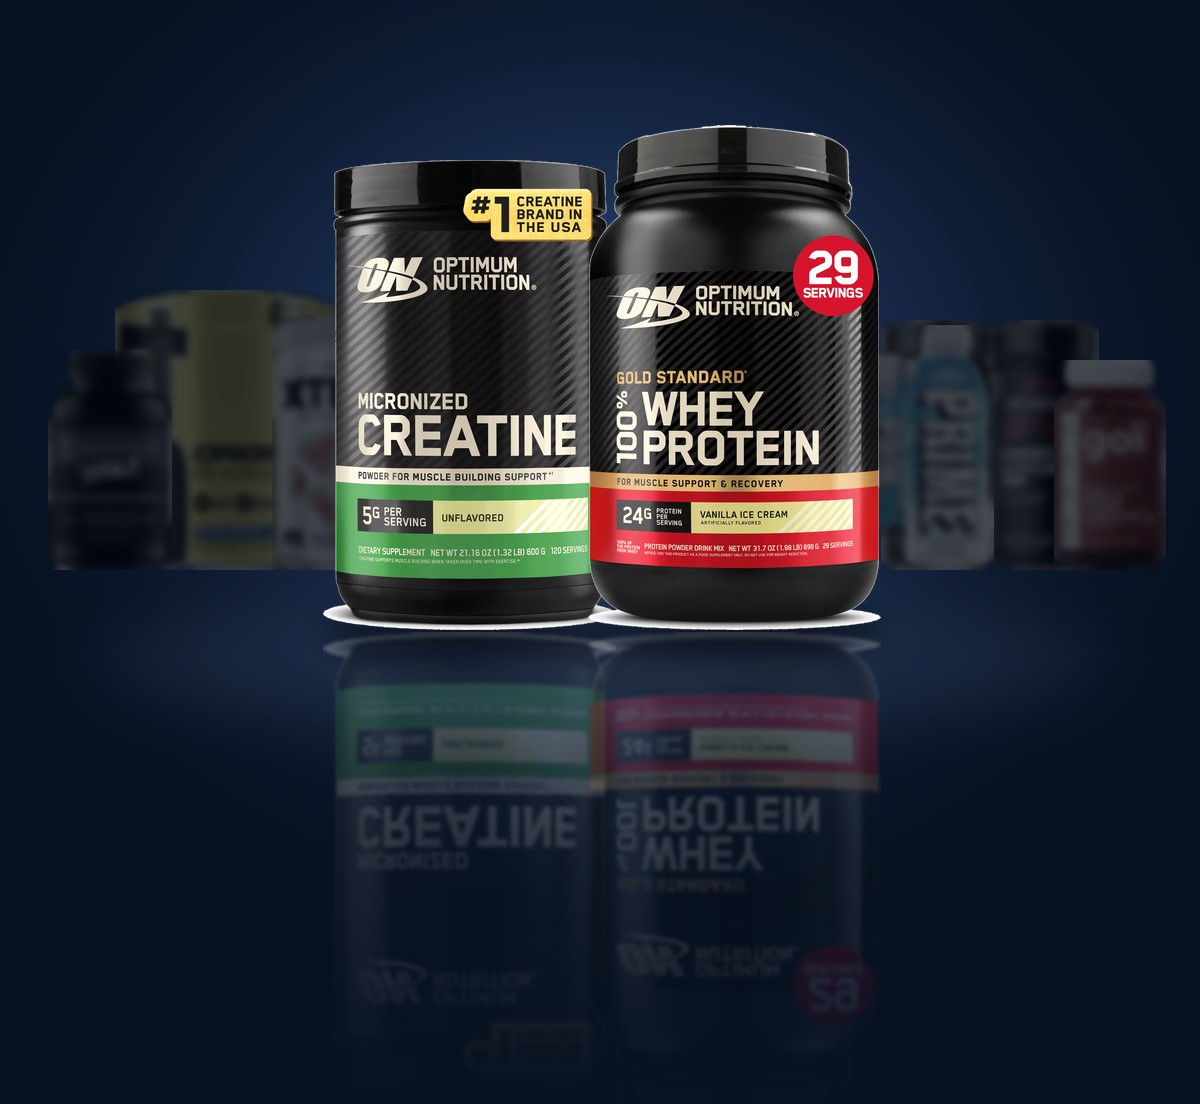
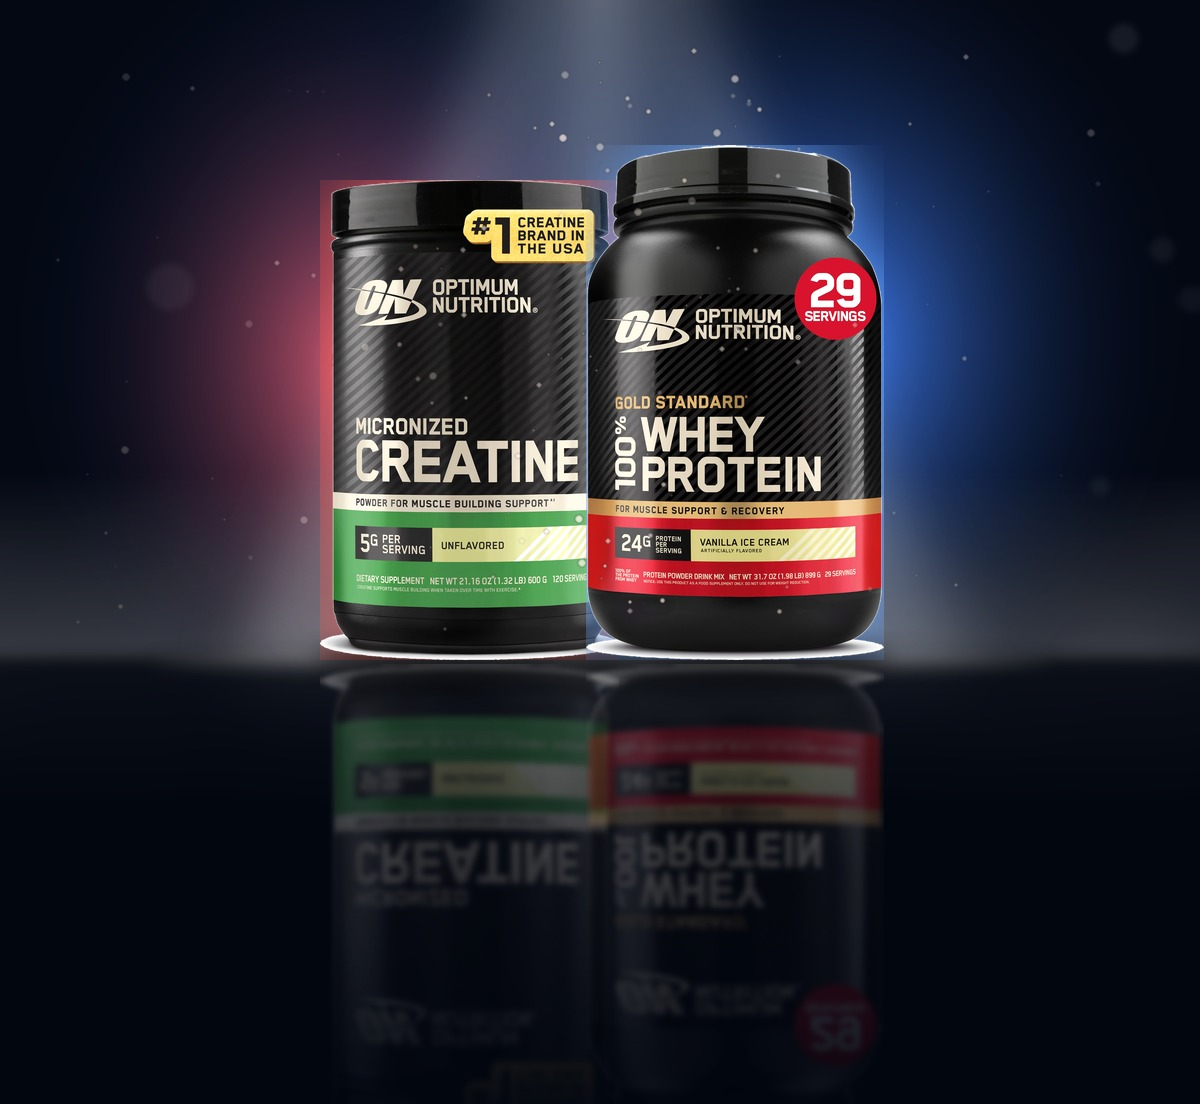
Commercial-style stack hero; Boon tab rewritten around the offer (Strip/Stack/Six-Pack, guarantee, Trend Shield, Boon AI teaser)
Claude-Session: https://claude.ai/code/session_01Bf86E4ucw6eJutAMhaLVMs

diff --git a/app/(tabs)/boon.tsx b/app/(tabs)/boon.tsx
@@ -1,22 +1,35 @@
 import React, { useCallback, useState } from 'react';
-import { Linking, StyleSheet, Text, View } from 'react-native';
+import { Linking, Pressable, StyleSheet, Text, View } from 'react-native';
 import { useFocusEffect } from 'expo-router';
 import { useAuth } from '../../src/lib/auth';
 import { supabase } from '../../src/lib/supabase';
 import { C, F } from '../../src/lib/theme';
-import { Body, Button, Card, Eyebrow, H1, s as ui } from '../../src/components/ui';
+import { Button } from '../../src/components/ui';
 import Screen from '../../src/components/Screen';
+import FullHero from '../../src/components/FullHero';
 import { WHATSAPP } from '../../src/components/NoPlan';
-import PageHeader from '../../src/components/PageHeader';
-import HeroCard from '../../src/components/HeroCard';
+import { ChatIcon, CheckIcon, ForkIcon, SearchIcon, ShieldIcon, SparkIcon, TrendIcon, TrophyIcon } from '../../src/components/icons';
+import { plain } from '../../src/lib/program';
 
-const HERO_IMG = require('../../assets/hero/boon.jpg');
-
+const HERO = require('../../assets/hero/boon_full.jpg');
 type Review = { id: string; week: number | null; body: string; created_at: string };
 
+const wa = (text?: string) => Linking.openURL(`https://wa.me/${WHATSAPP}${text ? `?text=${encodeURIComponent(text)}` : ''}`);
+
+const Badge = ({ children, tone = 'red' }: { children: React.ReactNode; tone?: 'red' | 'green' }) => (
+  <View style={[st.badge, tone === 'green' && { backgroundColor: 'rgba(63,191,127,0.15)', borderColor: C.green }]}>{children}</View>
+);
+
+const PILLARS = [
+  { n: '01', name: 'Strip', icon: <ShieldIcon color={C.red2} size={18} />, line: 'I audit your whole stack and cut what\'s wasting your money. No sponsors, so I have nothing to sell you.' },
+  { n: '02', name: 'Stack', icon: <ForkIcon color={C.red2} />, line: 'Meals built from food you already love, a 4-day Push / Pull / Legs / Upper plan, and only the supplements that work.' },
+  { n: '03', name: 'Six-Pack', icon: <TrendIcon color={C.red2} />, line: 'Every Sunday I read your check-in and change one thing at a time until the abs show.' },
+];
+
 export default function Boon() {
-  const { session, profile, signOut } = useAuth();
+  const { session, profile, plan, signOut } = useAuth();
   const [reviews, setReviews] = useState<Review[]>([]);
+  const name = plan?.name || profile?.first_name || '';
 
   useFocusEffect(useCallback(() => {
     if (!session) return;
@@ -26,29 +39,95 @@ export default function Boon() {
   }, [session]));
 
   return (
-    <Screen header={
-      <View style={{ gap: 18 }}>
-        <PageHeader kicker="Your coach" title="Boon" subtitle="225 to 175 lbs. No sponsors, no affiliate links. Just what works." right={<View />} />
-        <HeroCard image={HERO_IMG} badge="Your coach" title="Ask me anything"
-          subtitle="Stuck, hungry, sore or not sure? Text me. I answer every message myself." cta="Text Boon on WhatsApp"
-          onPress={() => Linking.openURL(`https://wa.me/${WHATSAPP}`)} />
-      </View>
+    <Screen edgeToEdge header={
+      <FullHero image={HERO} pills={[{ text: 'Your coach' }, { text: 'Replies within 24h', tone: 'green' }]}
+        title="I've got you"
+        lede={`${name ? `${name}, I` : 'I'} went from 225 to 175 lbs after years of wasting money on supplements that did nothing. Now I do for you what I wish someone did for me.`} />
     }>
+      {/* Main action */}
+      <Pressable accessibilityRole="button" onPress={() => wa()} style={({ pressed }) => [st.cta, pressed && { opacity: 0.9 }]}>
+        <View style={st.ctaIcon}><ChatIcon color={C.white} size={22} /></View>
+        <View style={{ flex: 1, gap: 2 }}>
+          <Text style={st.ctaTitle}>Text me anytime</Text>
+          <Text style={st.ctaSub}>Stuck, hungry, sore or not sure? Send it. I read and answer every message myself.</Text>
+        </View>
+      </Pressable>
 
-      <Eyebrow>Your weekly reviews</Eyebrow>
-      {reviews.length === 0 && <Body>After your first Sunday check-in, my review for your week shows up here.</Body>}
+      {/* The offer */}
+      <View style={st.card}>
+        <Text style={st.kicker}>Your 12 weeks with me</Text>
+        <Text style={st.cardTitle}>Strip. Stack. Six-Pack.</Text>
+        {PILLARS.map((p) => (
+          <View key={p.n} style={st.pillar}>
+            <Badge>{p.icon}</Badge>
+            <View style={{ flex: 1, gap: 2 }}>
+              <Text style={st.pillarName}><Text style={{ color: C.red2 }}>{p.n}  </Text>{p.name}</Text>
+              <Text style={st.body}>{p.line}</Text>
+            </View>
+          </View>
+        ))}
+      </View>
+
+      {/* Guarantee */}
+      <View style={[st.card, { borderColor: C.green, backgroundColor: 'rgba(63,191,127,0.08)' }]}>
+        <View style={st.row}>
+          <Badge tone="green"><TrophyIcon color={C.green} /></Badge>
+          <Text style={[st.cardTitle, { flex: 1 }]}>My promise to you</Text>
+        </View>
+        {!!plan?.goal_short && <Text style={st.goal}>{plain(plan.goal_short)}</Text>}
+        <Text style={st.body}>Do your 12 Sunday check-ins, send your photos on photo weeks and hit your food 5 days out of 7. If you don't reach your goal, I keep coaching you for free for up to 12 more weeks until you do.</Text>
+        {['12 Sunday check-ins', 'Photos on photo weeks', 'Food on point 5 of 7 days'].map((t) => (
+          <View key={t} style={st.check}><View style={st.tick}><CheckIcon size={11} /></View><Text style={st.checkText}>{t}</Text></View>
+        ))}
+      </View>
+
+      {/* Trend Shield */}
+      <View style={st.card}>
+        <View style={st.row}>
+          <Badge><SearchIcon color={C.red2} /></Badge>
+          <View style={{ flex: 1 }}>
+            <Text style={st.kicker}>Trend Shield</Text>
+            <Text style={st.cardTitle}>Saw something new?</Text>
+          </View>
+        </View>
+        <Text style={st.body}>A new supplement, a viral trend, an ad that sounds too good. Send it before you buy it. You get my honest verdict within 24 hours. No sponsors, no affiliate links, ever.</Text>
+        <Button title="Send me a product" variant="ghost" onPress={() => wa('Trend Shield: what do you think of this? ')} />
+      </View>
+
+      {/* Weekly reviews */}
+      <Text style={st.section}>Your weekly reviews</Text>
+      {reviews.length === 0 && (
+        <View style={st.empty}>
+          <Text style={st.body}>After your first Sunday check-in, my notes on your week land here: what's working, the one thing we change, and your focus for the next 7 days.</Text>
+        </View>
+      )}
       {reviews.map((r) => (
-        <Card key={r.id}>
-          <Text style={ui.label}>{r.week ? `Week ${r.week}` : new Date(r.created_at).toLocaleDateString()}</Text>
-          <Body>{r.body}</Body>
-        </Card>
+        <View key={r.id} style={st.review}>
+          <View style={st.row}>
+            <View style={st.wk}><Text style={st.wkText}>W{r.week ?? '–'}</Text></View>
+            <Text style={[st.pillarName, { flex: 1 }]}>{r.week ? `Week ${r.week} review` : new Date(r.created_at).toLocaleDateString()}</Text>
+          </View>
+          <Text style={st.body}>{r.body}</Text>
+        </View>
       ))}
 
-      <Text style={[st.sub, { fontFamily: 'Montserrat_500Medium', lineHeight: 16, marginTop: 16 }]}>
+      {/* Coming soon */}
+      <View style={[st.card, { borderStyle: 'dashed' }]}>
+        <View style={st.row}>
+          <Badge><SparkIcon color={C.red2} /></Badge>
+          <View style={{ flex: 1 }}>
+            <Text style={st.kicker}>Coming soon</Text>
+            <Text style={st.cardTitle}>Boon AI</Text>
+          </View>
+        </View>
+        <Text style={st.body}>An AI coach trained on my rules and verdicts, so you can ask about any meal, product or workout at 2am and get my kind of answer. It will always be clearly labeled as AI. Real me stays your coach.</Text>
+      </View>
+
+      <Text style={st.fine}>
         Product names, logos and photos belong to their owners and are shown to identify the products Boon reviews. No sponsorships, no affiliate links. Not medical advice: check with your doctor before changing anything if you have a condition or take medication.
       </Text>
-      <View style={{ marginTop: 8, gap: 8 }}>
-        <Text style={st.sub}>Signed in as {profile?.email || session?.user.email}</Text>
+      <View style={{ gap: 8 }}>
+        <Text style={st.fine}>Signed in as {profile?.email || session?.user.email}</Text>
         <Button title="Sign out" variant="ghost" onPress={signOut} />
       </View>
     </Screen>
@@ -56,8 +135,26 @@ export default function Boon() {
 }
 
 const st = StyleSheet.create({
-  head: { flexDirection: 'row', alignItems: 'center', gap: 12, marginTop: 8 },
-  avatar: { width: 48, height: 48, borderRadius: 24, backgroundColor: C.red, alignItems: 'center', justifyContent: 'center' },
-  avatarText: { fontFamily: F.black, fontSize: 20, color: C.white },
-  sub: { fontFamily: F.bold, fontSize: 12, color: C.white },
+  cta: { flexDirection: 'row', alignItems: 'center', gap: 14, backgroundColor: C.red, borderRadius: 22, padding: 18 },
+  ctaIcon: { width: 50, height: 50, borderRadius: 25, backgroundColor: 'rgba(13,27,51,0.3)', alignItems: 'center', justifyContent: 'center' },
+  ctaTitle: { fontFamily: F.black, fontSize: 20, color: C.white },
+  ctaSub: { fontFamily: F.semi, fontSize: 13, lineHeight: 18, color: C.white },
+  card: { backgroundColor: C.navy2, borderWidth: 1, borderColor: C.line, borderRadius: 22, padding: 16, gap: 14 },
+  kicker: { fontFamily: F.xbold, fontSize: 11, letterSpacing: 1.4, textTransform: 'uppercase', color: C.red2 },
+  cardTitle: { fontFamily: F.black, fontSize: 20, color: C.white },
+  row: { flexDirection: 'row', alignItems: 'center', gap: 12 },
+  badge: { width: 40, height: 40, borderRadius: 20, backgroundColor: 'rgba(226,67,59,0.14)', borderWidth: 1, borderColor: 'rgba(226,67,59,0.45)', alignItems: 'center', justifyContent: 'center' },
+  pillar: { flexDirection: 'row', gap: 12, alignItems: 'flex-start' },
+  pillarName: { fontFamily: F.black, fontSize: 16, color: C.white, textTransform: 'uppercase', letterSpacing: 0.4 },
+  body: { fontFamily: F.semi, fontSize: 14, lineHeight: 20, color: C.white },
+  goal: { fontFamily: F.black, fontSize: 18, lineHeight: 23, color: C.green, textTransform: 'uppercase' },
+  check: { flexDirection: 'row', alignItems: 'center', gap: 10 },
+  tick: { width: 20, height: 20, borderRadius: 10, backgroundColor: C.green, alignItems: 'center', justifyContent: 'center' },
+  checkText: { fontFamily: F.xbold, fontSize: 14, color: C.white },
+  section: { fontFamily: F.black, fontSize: 21, color: C.white, marginTop: 4 },
+  empty: { backgroundColor: C.navy2, borderWidth: 1, borderColor: C.line, borderRadius: 18, padding: 16 },
+  review: { backgroundColor: C.navy2, borderWidth: 1, borderColor: C.line, borderRadius: 18, padding: 16, gap: 10 },
+  wk: { width: 36, height: 36, borderRadius: 18, backgroundColor: C.red, alignItems: 'center', justifyContent: 'center' },
+  wkText: { fontFamily: F.black, fontSize: 12, color: C.white },
+  fine: { fontFamily: F.medium, fontSize: 11, lineHeight: 16, color: C.white, marginTop: 4 },
 });

diff --git a/src/components/icons.tsx b/src/components/icons.tsx
@@ -100,3 +100,9 @@ export const TrendIcon = ({ color = '#fff', size = 18 }: P) => (
 export const CalendarIcon = ({ color = '#fff', size = 18 }: P) => (
   <Svg width={size} height={size} viewBox="0 0 24 24"><Rect x={3} y={5} width={18} height={16} rx={3} {...base(color)} /><Path d="M3 10h18M8 3v4M16 3v4" {...base(color)} /></Svg>
 );
+export const SparkIcon = ({ color = '#fff', size = 18 }: P) => (
+  <Svg width={size} height={size} viewBox="0 0 24 24"><Path d="M12 3l1.8 5.2L19 10l-5.2 1.8L12 17l-1.8-5.2L5 10l5.2-1.8zM19 16l.8 2.2L22 19l-2.2.8L19 22l-.8-2.2L16 19l2.2-.8z" {...base(color)} /></Svg>
+);
+export const SearchIcon = ({ color = '#fff', size = 18 }: P) => (
+  <Svg width={size} height={size} viewBox="0 0 24 24"><Circle cx={11} cy={11} r={6.5} {...base(color)} /><Path d="M16 16l5 5" {...base(color)} /></Svg>
+);

diff --git a/tools/make_ad_heroes.py b/tools/make_ad_heroes.py
@@ -1,0 +1,70 @@
+from PIL import Image, ImageDraw, ImageFilter, ImageEnhance, ImageOps
+import numpy as np, random
+random.seed(7); np.random.seed(7)
+W,H=1200,1104
+CUT='/home/claude/btl2/photos/cut/'
+yy,xx=np.mgrid[0:H,0:W].astype(float)
+def glow(cx,cy,rx,ry,col,power=1.8,k=1.0):
+    d=np.sqrt(((xx-cx)/rx)**2+((yy-cy)/ry)**2); a=np.clip(1-d,0,1)**power*k
+    return a[...,None]*np.array(col,float)
+bg=np.zeros((H,W,3))+np.array([6,10,20],float)
+bg+=glow(600,330,620,520,[25,45,85],1.4)          # navy wash
+bg+=glow(360,360,330,420,[226,67,59],2.2,0.85)     # red backlight left
+bg+=glow(840,340,330,420,[60,120,230],2.2,0.75)    # blue backlight right
+bg+=glow(600,-40,260,700,[255,255,255],3.0,0.25)   # top beam
+img=Image.fromarray(np.clip(bg,0,255).astype('uint8')).convert('RGBA')
+# light rays from the top
+rays=Image.new('L',(W,H),0); rd=ImageDraw.Draw(rays)
+for x0,x1,a in [(520,300,60),(600,600,70),(680,900,60),(560,450,40),(640,760,40)]:
+    rd.polygon([(x0-10,-10),(x0+10,-10),(x1+70,H*0.62),(x1-70,H*0.62)],fill=a)
+rays=rays.filter(ImageFilter.GaussianBlur(28))
+img.alpha_composite(Image.merge('RGBA',[Image.new('L',(W,H),255)]*3+[rays]))
+# haze / smoke near the floor
+n=np.random.rand(H//8,W//8); smoke=Image.fromarray((n*255).astype('uint8')).resize((W,H),Image.BICUBIC).filter(ImageFilter.GaussianBlur(30))
+sm=np.array(smoke).astype(float)/255; band=np.clip(1-abs(yy-640)/170,0,1); sa=(sm*band*120).astype('uint8')
+img.alpha_composite(Image.merge('RGBA',[Image.new('L',(W,H),200)]*3+[Image.fromarray(sa)]))
+# glossy floor
+floor=Image.new('RGBA',(W,H),(0,0,0,0)); fd=ImageDraw.Draw(floor)
+fd.rectangle([0,660,W,H],fill=(4,8,16,200)); img.alpha_composite(floor.filter(ImageFilter.GaussianBlur(6)))
+line=Image.new('RGBA',(W,H),(0,0,0,0)); ImageDraw.Draw(line).ellipse([140,648,1060,676],fill=(255,255,255,70)); img.alpha_composite(line.filter(ImageFilter.GaussianBlur(10)))
+def load(n,h):
+    im=Image.open(CUT+n).convert('RGBA'); im=im.crop(im.getbbox()); return im.resize((int(im.width*h/im.height),h),Image.LANCZOS)
+def rim(im,col):
+    a=im.getchannel('A'); edge=a.filter(ImageFilter.MaxFilter(5)).filter(ImageFilter.GaussianBlur(22)).point(lambda v:int(v*0.55))
+    g=Image.new('RGBA',im.size,col+(0,)); g.putalpha(edge); return g
+BASE=660
+for n,cx,h,col in [('creatine.png',470,480,(255,90,80)),('on.png',735,515,(110,170,255))]:
+    im=load(n,h); x=int(cx-im.width/2); y=BASE-im.height
+    # reflection
+    r=ImageOps.flip(im); ra=np.array(r.getchannel('A')).astype(float); ra*=np.linspace(0.38,0,r.height)[:,None]; r.putalpha(Image.fromarray(ra.astype('uint8')))
+    img.alpha_composite(r.filter(ImageFilter.GaussianBlur(3)),(x,BASE+4))
+    # coloured rim light
+    big=Image.new('RGBA',(W,H),(0,0,0,0)); big.alpha_composite(rim(im,col),(x,y)); img.alpha_composite(big)
+    sh=Image.new('RGBA',(W,H),(0,0,0,0)); ImageDraw.Draw(sh).ellipse([cx-im.width*0.52,BASE-14,cx+im.width*0.52,BASE+14],fill=(0,0,0,200)); img.alpha_composite(sh.filter(ImageFilter.GaussianBlur(12)))
+    img.alpha_composite(im,(x,y))
+# floating powder/dust particles
+pt=Image.new('RGBA',(W,H),(0,0,0,0)); pd=ImageDraw.Draw(pt)
+for _ in range(140):
+    x=random.gauss(600,260); y=random.uniform(40,640); r=random.choice([1,1,1.5,2,2.5,3.5])
+    a=int(random.uniform(60,200)*(1-abs(x-600)/700)); pd.ellipse([x-r,y-r,x+r,y+r],fill=(255,240,230,max(0,a)))
+img.alpha_composite(pt.filter(ImageFilter.GaussianBlur(0.8)))
+bok=Image.new('RGBA',(W,H),(0,0,0,0)); bd=ImageDraw.Draw(bok)
+for _ in range(6):
+    x=random.uniform(0,W); y=random.uniform(30,520); r=random.uniform(10,26); bd.ellipse([x-r,y-r,x+r,y+r],fill=(255,255,255,random.randint(10,22)))
+img.alpha_composite(bok.filter(ImageFilter.GaussianBlur(4)))
+out=img.convert('RGB'); out=ImageEnhance.Contrast(out).enhance(1.06); out.save('stack_ad.jpg',quality=92)
+
+# Boon hero: cutout on a red/navy stage
+b=Image.open('boon_cut.png').convert('RGBA'); b=b.crop(b.getbbox())
+bg=np.zeros((H,W,3))+np.array([8,14,28],float)
+bg+=glow(600,300,560,520,[30,52,95],1.3)
+bg+=glow(820,380,380,460,[226,67,59],2.0,0.75)
+bg+=glow(330,300,320,400,[60,120,230],2.2,0.45)
+img=Image.fromarray(np.clip(bg,0,255).astype('uint8')).convert('RGBA')
+h=820; b=b.resize((int(b.width*h/b.height),h),Image.LANCZOS)
+x=int(650-b.width/2); y=40
+a=np.array(b.getchannel('A')).astype(float); a*=np.clip((np.linspace(1,0,h)[:,None]*1.0+0.15),0,1)**0.0; 
+fade=np.clip((h-np.arange(h))/360,0,1)[:,None]**1.4; a=a*fade; b.putalpha(Image.fromarray(a.astype('uint8')))
+img.alpha_composite(b,(x,y))
+img.convert('RGB').save('boon_hero.jpg',quality=90)
+s=Image.new('RGB',(1210,560),(255,255,255)); s.paste(Image.open('stack_ad.jpg').resize((600,552)),(0,0)); s.paste(Image.open('boon_hero.jpg').resize((600,552)),(610,0)); s.save('ad_prev.jpg')
